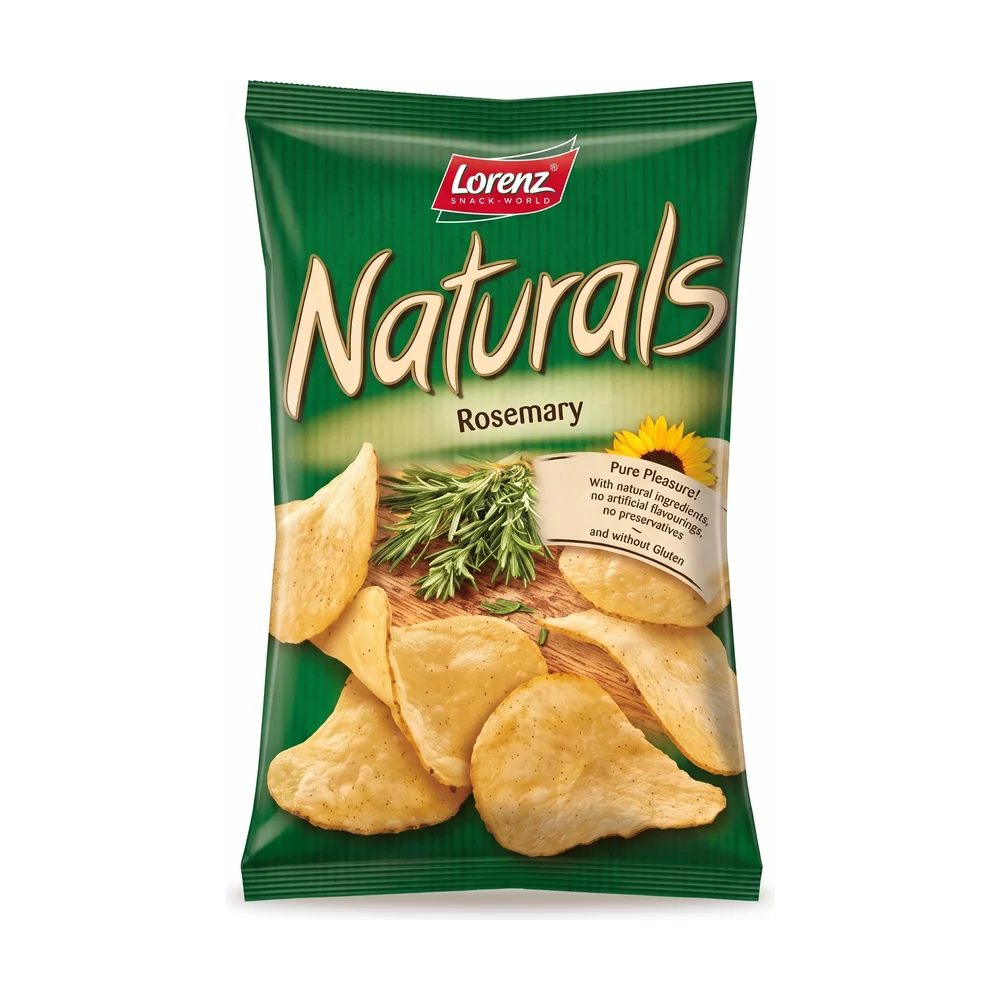
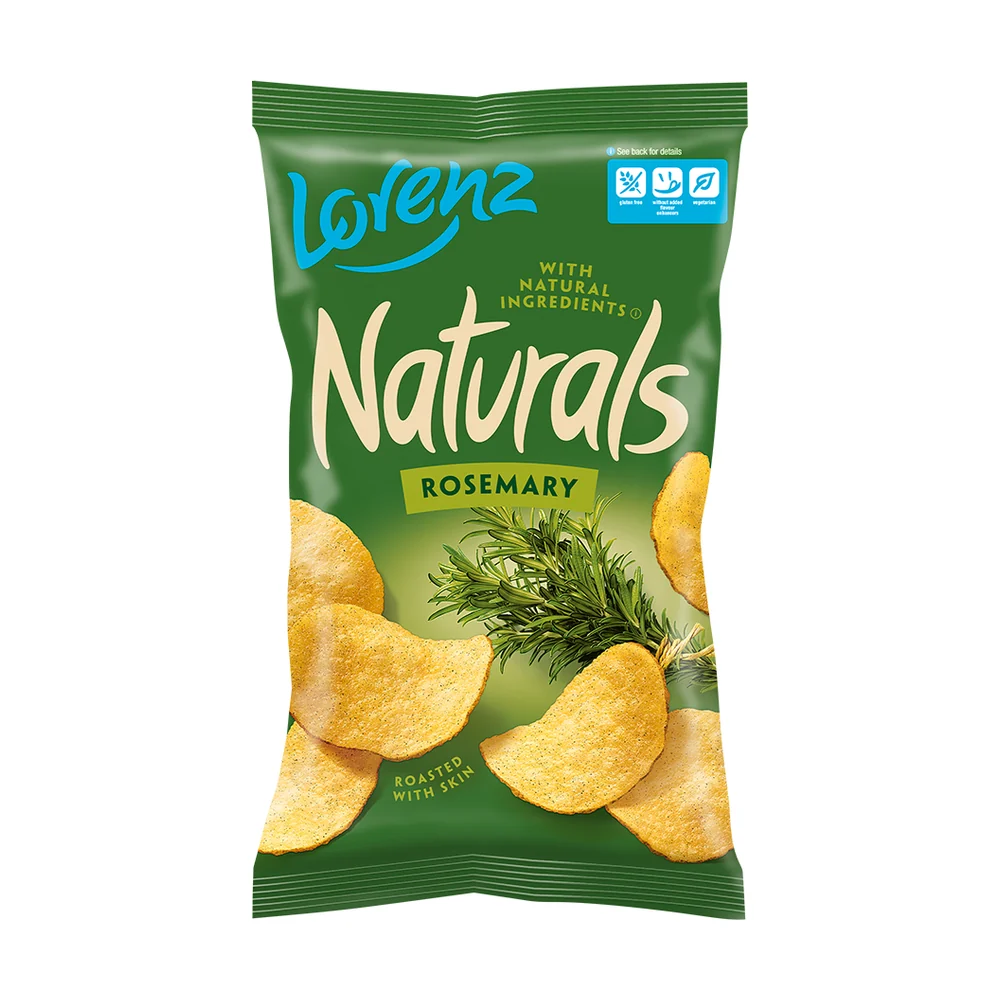
review(2549008-snack-khoai-tay): 3 products — 0 keep, 3 fixed, 0 need photo, 0 asked
Lorenz Naturals arrived in the new pack: use the brand's own 100g
packshots from lorenz-snacks.com instead of the old-design redraws.

Claude-Session: https://claude.ai/code/session_01DMTF5GjS3P9om8RxKa1WuX

diff --git a/STATUS.md b/STATUS.md
@@ -2,13 +2,13 @@
 
 > Sinh tự động bởi `node tools/status.mjs`. **Không sửa tay.** Nguồn sự thật là `meta.json` của từng SP.
 
-Tổng 2687 SP · đã xem 2687 (100%) · xong 2636 · chờ chủ duyệt 6 · cần chụp 0 · hỏi chủ 1
+Tổng 2687 SP · đã xem 2687 (100%) · xong 2635 · chờ chủ duyệt 7 · cần chụp 0 · hỏi chủ 1
 
 Thứ tự làm: từ trên xuống (doanh số 90 ngày giảm dần). `xong` = giữ nguyên + đã lên web.
 
 | # | Category | DT 90 ngày | Tổng | Chưa xem | Giữ nguyên | Đang làm | Cần chụp | Hỏi chủ | Chờ duyệt | Đã duyệt | Đã lên web |
 |---|---|---:|---:|---:|---:|---:|---:|---:|---:|---:|---:|
-| 1 | Snack khoai tây | 0.0tr | 81 | 0 | 0 | 0 | 0 | 0 | 2 | 0 | 79 |
+| 1 | Snack khoai tây | 0.0tr | 81 | 0 | 0 | 0 | 0 | 0 | 3 | 0 | 78 |
 | 2 | Snack bắp & phồng | 0.0tr | 74 | 0 | 0 | 0 | 0 | 1 | 0 | 0 | 73 |
 | 3 | Kem que | 0.0tr | 62 | 0 | 0 | 0 | 0 | 0 | 0 | 0 | 62 |
 | 4 | Socola thanh | 0.0tr | 51 | 0 | 7 | 0 | 0 | 0 | 0 | 0 | 44 |
